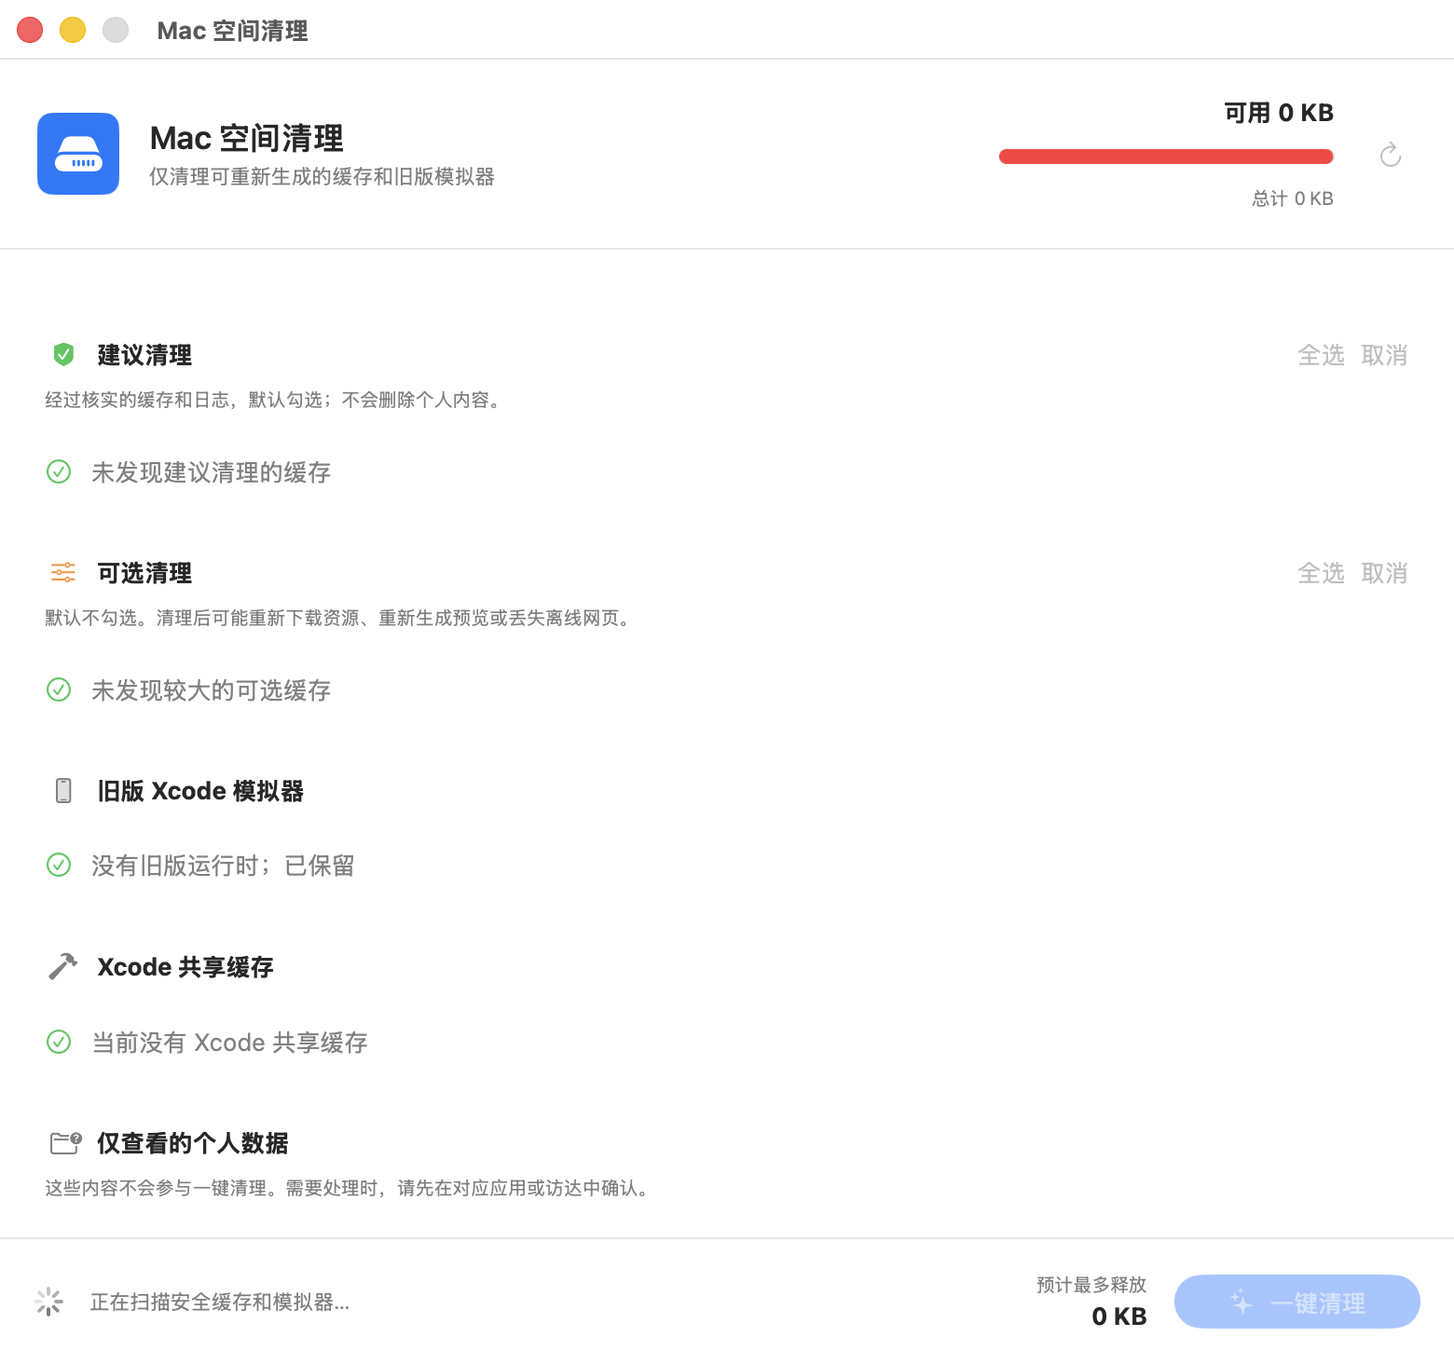
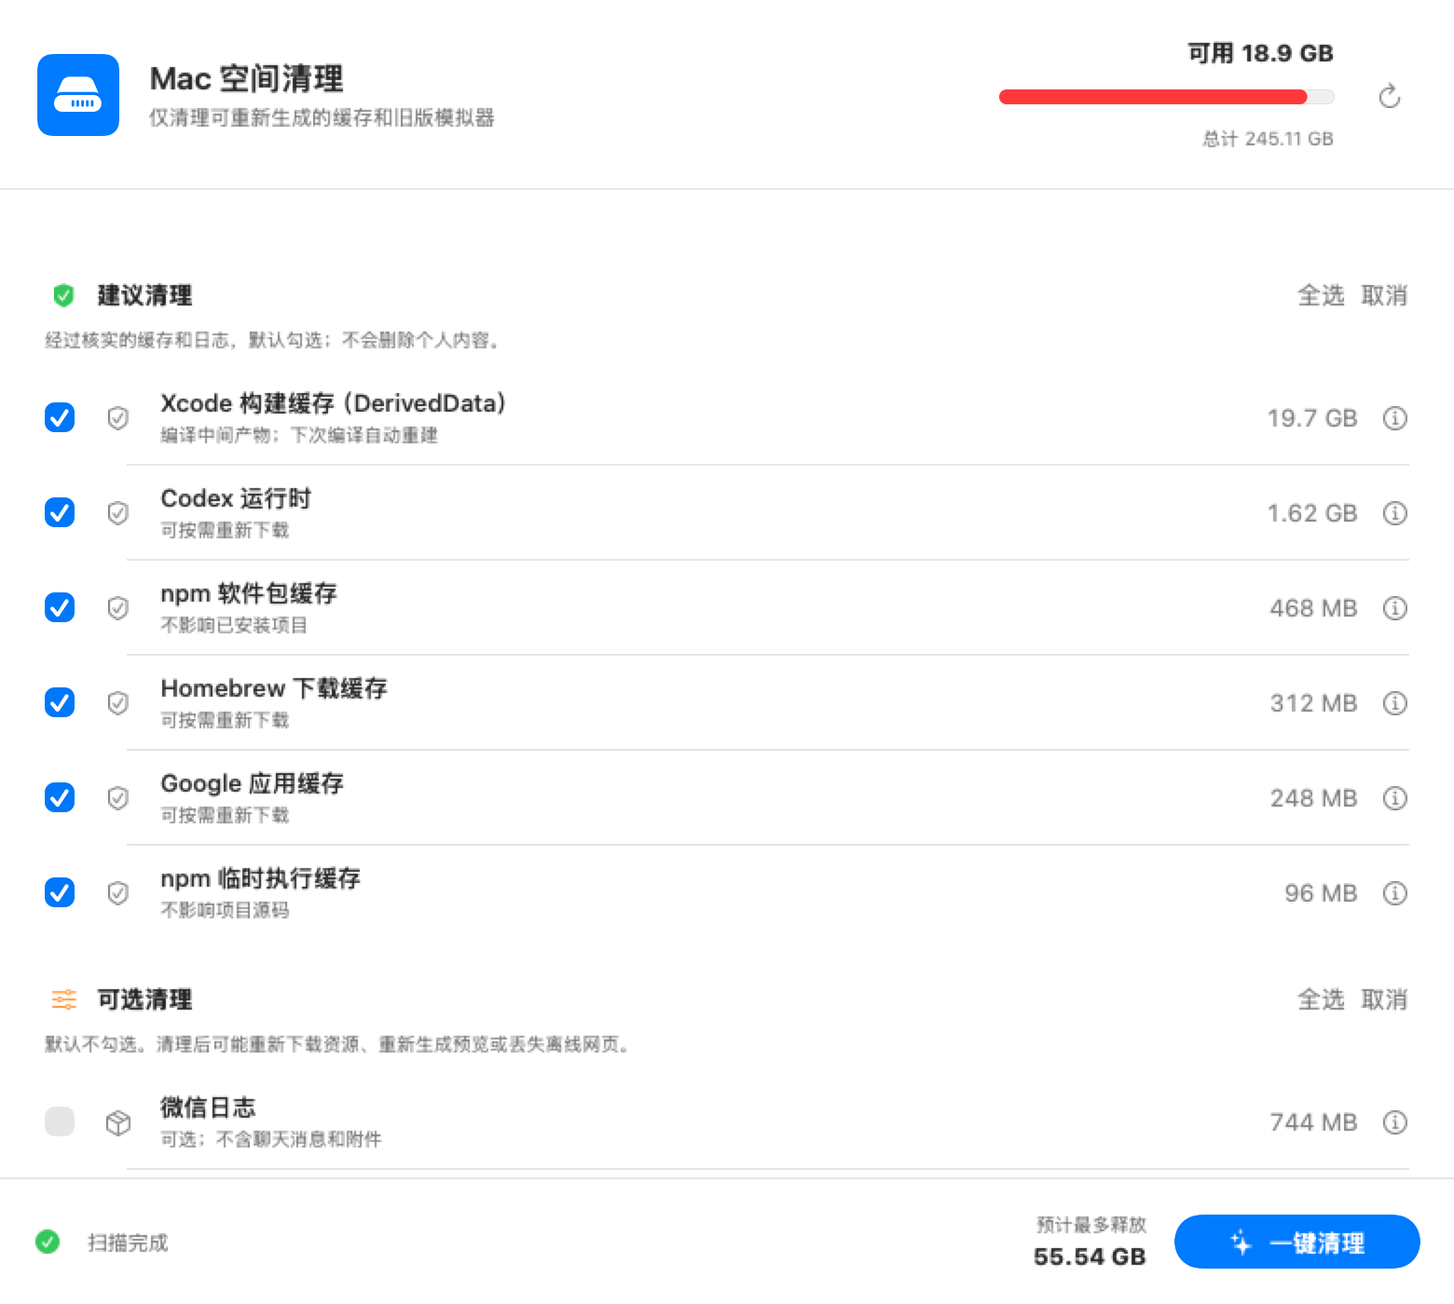
Lead the homepage with the developer angle
The homepage pitched the general "see the cache before you clean" idea, which
competes directly with established Mac cleaners. The Xcode wedge is the part
nobody else covers well, so the front page now leads with it.

- Hero, title, meta description and featureList all lead with Xcode storage
- Coverage list puts Xcode first and links to the new Xcode page
- Rebuild the product screenshot: the old one showed "0 KB free", and the only
  spare was a real capture that exposed the owner's installed apps
- Add an English screenshot so the English page no longer borrows the Chinese one
- Label the figure as an illustrative screenshot of the real interface

diff --git a/website/en/index.html b/website/en/index.html
@@ -3,7 +3,7 @@
 <head>
   <meta charset="utf-8">
   <meta name="viewport" content="width=device-width, initial-scale=1">
-  <meta name="description" content="Mac Space Cleaner is a native macOS cache cleaner that shows what will be removed and keeps personal data out of one-click cleanup.">
+  <meta name="description" content="A native macOS cleaner that lists the real size of old Xcode simulator runtimes, build caches, device support files and developer caches, and marks what can be regenerated.">
   <meta name="theme-color" content="#f4f7fc">
   <link rel="canonical" href="https://mac-space-cleaner.vercel.app/en/">
   <link rel="alternate" hreflang="zh-Hans" href="https://mac-space-cleaner.vercel.app/">
@@ -11,14 +11,14 @@
   <link rel="alternate" hreflang="x-default" href="https://mac-space-cleaner.vercel.app/en/">
   <meta property="og:type" content="website">
   <meta property="og:site_name" content="Mac Space Cleaner">
-  <meta property="og:title" content="Mac Space Cleaner | See the cache before you clean">
-  <meta property="og:description" content="A native macOS cache cleaner that separates recommended, optional and personal data so you stay in control.">
+  <meta property="og:title" content="Mac Space Cleaner | See what Xcode is eating before you delete it">
+  <meta property="og:description" content="Old simulator runtimes, build caches and device support files, listed with their real size and marked as regenerable.">
   <meta property="og:url" content="https://mac-space-cleaner.vercel.app/en/">
   <meta property="og:image" content="https://mac-space-cleaner.vercel.app/assets/app-icon.png">
   <meta name="twitter:card" content="summary">
-  <meta name="twitter:title" content="Mac Space Cleaner | See the cache before you clean">
-  <meta name="twitter:description" content="A native macOS cache cleaner that shows what will be removed and keeps personal data out of one-click cleanup.">
-  <title>Mac Space Cleaner - See the cache before you clean</title>
+  <meta name="twitter:title" content="Mac Space Cleaner | See what Xcode is eating before you delete it">
+  <meta name="twitter:description" content="A native macOS cleaner that lists the real size of every item and marks what can be regenerated.">
+  <title>Mac Space Cleaner | See what Xcode and dev caches are eating first</title>
   <link rel="icon" href="../assets/app-icon.png">
   <link rel="stylesheet" href="../styles.css">
   <script src="https://unpkg.com/lucide@0.468.0/dist/umd/lucide.min.js" defer></script>
@@ -29,7 +29,7 @@
     "@type": "SoftwareApplication",
     "name": "Mac Space Cleaner",
     "alternateName": "MacSpaceCleaner",
-    "description": "A native macOS cache cleaner that shows what will be removed and keeps personal data out of one-click cleanup.",
+    "description": "A native macOS cleaner that lists the real size of old Xcode simulator runtimes, build caches, device support files and developer caches, and marks what can be regenerated.",
     "applicationCategory": "UtilitiesApplication",
     "operatingSystem": "macOS 14 or later",
     "softwareVersion": "1.3",
@@ -37,7 +37,7 @@
     "downloadUrl": "https://mac-space-cleaner.vercel.app/downloads/MacSpaceCleaner-1.3.dmg",
     "image": "https://mac-space-cleaner.vercel.app/assets/app-icon.png",
     "offers": {"@type": "Offer", "price": "0", "priceCurrency": "USD", "url": "https://mac-space-cleaner.vercel.app/downloads/MacSpaceCleaner-1.3.dmg"},
-    "featureList": ["Local cache scanning", "Old Xcode simulator detection", "Optional cache categories", "Read-only personal data view", "Apple notarization"]
+    "featureList": ["Old Xcode simulator runtime detection", "Xcode build cache (DerivedData) detection", "Device support file detection", "Developer tool cache scanning", "Optional cache categories", "Read-only personal data view", "Apple notarization"]
   }
   </script>
 </head>
@@ -64,12 +64,12 @@
   <main id="top">
     <section class="hero" aria-labelledby="hero-title">
       <div class="hero-inner">
-        <p class="eyebrow">See the cache before you clean</p>
-        <h1 id="hero-title">Mac Space Cleaner</h1>
-        <p class="hero-lead">Find common app caches, developer-tool caches and old Xcode simulators. Personal data always stays under your control.</p>
+        <p class="eyebrow">macOS storage cleanup</p>
+        <h1 id="hero-title">See what Xcode is eating before you delete it</h1>
+        <p class="hero-lead">Old simulator runtimes, build caches and device support files are the three largest reclaimable blocks on a developer's Mac. Everyday app caches are covered too. Every item is listed with its real size and marked as regenerable or not, and you decide what goes.</p>
         <div class="hero-actions">
-          <a class="button button-primary" href="../downloads/MacSpaceCleaner-1.3.dmg" download><i data-lucide="download" aria-hidden="true"></i>Download v1.2</a>
-          <a class="button button-secondary" href="mac-storage-cleaner.html">Mac running out of space?<i data-lucide="arrow-right" aria-hidden="true"></i></a>
+          <a class="button button-primary" href="../downloads/MacSpaceCleaner-1.3.dmg" download><i data-lucide="download" aria-hidden="true"></i>Download v1.3</a>
+          <a class="button button-secondary" href="xcode-simulator-cleanup.html">See what Xcode takes up<i data-lucide="arrow-right" aria-hidden="true"></i></a>
         </div>
         <div class="hero-meta" aria-label="Version details">
           <span><i data-lucide="badge-check" aria-hidden="true"></i>Apple notarized</span>
@@ -91,23 +91,23 @@
       <div class="section-inner">
         <div class="section-heading">
           <p class="eyebrow">The interface</p>
-          <h2 id="product-title">Every storage category has a clear safety boundary</h2>
-          <p>Recommended caches, optional caches, old simulators and personal data are shown separately. You decide what happens after the scan.</p>
+          <h2 id="product-title">What is safe to delete, and what only looks like it</h2>
+          <p>Recommended caches, optional caches, the three Xcode categories and personal data are shown in separate groups. Each group has its own selection boundary, and nothing happens until you decide.</p>
         </div>
         <figure class="app-preview">
-          <img src="../assets/app-window.png" alt="Mac Space Cleaner interface showing recommended cleanup, optional cleanup, old simulators and personal data sections" width="1560" height="1464">
-          <figcaption>The app follows your preferred macOS language. This screenshot is shown in Simplified Chinese; results vary by installed software and cache contents.</figcaption>
+          <img src="../assets/app-window-en.png" alt="Mac Space Cleaner interface: the first recommended item is the Xcode build cache (DerivedData) at 19.7 GB, followed by optional old simulator runtimes, device support files and a read-only personal data section" width="1560" height="1400">
+          <figcaption>Illustrative screenshot; the interface is the real product. Actual values depend on the software and caches installed on your Mac.</figcaption>
         </figure>
       </div>
     </section>
 
     <section class="coverage-section" id="coverage" aria-labelledby="coverage-title">
       <div class="section-inner">
-        <div class="section-heading compact"><p class="eyebrow">What it finds</p><h2 id="coverage-title">Everyday apps and developer tools</h2></div>
+        <div class="section-heading compact"><p class="eyebrow">What it finds</p><h2 id="coverage-title">From Xcode to everyday app caches</h2></div>
         <div class="coverage-list">
-          <article><div class="feature-icon green"><i data-lucide="package-check" aria-hidden="true"></i></div><div><h3>Recommended cleanup</h3><p>Browser component caches, update caches, logs and regenerable content from tools such as npm, pnpm, bun, Homebrew and Playwright.</p></div></article>
-          <article><div class="feature-icon orange"><i data-lucide="sliders-horizontal" aria-hidden="true"></i></div><div><h3>Optional cleanup</h3><p>Other app caches, offline webpages, speech models, dynamic wallpapers and temporary resources from apps such as WeChat and WPS.</p></div></article>
-          <article><div class="feature-icon blue"><i data-lucide="smartphone" aria-hidden="true"></i></div><div><h3>Xcode simulators</h3><p>Finds old runtimes while keeping the newest version for each platform. Regenerable dyld shared caches can also be removed.</p></div></article>
+          <article><div class="feature-icon blue"><i data-lucide="hammer" aria-hidden="true"></i></div><div><h3>Xcode storage</h3><p>Old simulator runtimes are listed one by one per platform and version, with the newest version of each platform marked automatically. The build cache (DerivedData) and device support files can be handled separately. All three are regenerable, so removing them does not touch your source code or configuration. <a href="xcode-simulator-cleanup.html">See how it decides →</a></p></div></article>
+          <article><div class="feature-icon green"><i data-lucide="package-check" aria-hidden="true"></i></div><div><h3>Developer tool caches</h3><p>Package caches, temporary execution caches and download caches left behind by tools such as npm, pnpm, bun, Homebrew and Playwright. All of them are regenerated on demand.</p></div></article>
+          <article><div class="feature-icon orange"><i data-lucide="sliders-horizontal" aria-hidden="true"></i></div><div><h3>App caches and logs</h3><p>Browser component caches, update caches, offline webpages, speech models, dynamic wallpapers and temporary resources from apps such as WeChat and WPS. This group is unchecked by default.</p></div></article>
           <article><div class="feature-icon gray"><i data-lucide="folder-search" aria-hidden="true"></i></div><div><h3>Personal data is view-only</h3><p>Downloads, iCloud Drive, WeChat chat data and WPS backups are shown for reference and never included in one-click cleanup.</p></div></article>
         </div>
       </div>
@@ -127,7 +127,7 @@
 
     <section class="download-section" id="download" aria-labelledby="download-title">
       <div class="section-inner download-layout">
-        <div><p class="eyebrow light">Current version 1.3</p><h2 id="download-title">Give your Mac room to breathe</h2><p>Download the DMG and drag the app into Applications. File size is approximately 1.2 MB.</p></div>
+        <div><p class="eyebrow light">Current version 1.3</p><h2 id="download-title">Give the space back to your next build</h2><p>Download the DMG and drag the app into Applications. File size is approximately 1.2 MB. Apple notarized, and the scan runs entirely on your Mac.</p></div>
         <div class="download-actions"><a class="button button-light" href="../downloads/MacSpaceCleaner-1.3.dmg" download><i data-lucide="download" aria-hidden="true"></i>Download for Mac</a><a class="checksum-link" href="../downloads/MacSpaceCleaner-1.3.dmg.sha256" download>SHA-256 checksum</a></div>
       </div>
     </section>

diff --git a/website/index.html b/website/index.html
@@ -3,7 +3,7 @@
 <head>
   <meta charset="utf-8">
   <meta name="viewport" content="width=device-width, initial-scale=1">
-  <meta name="description" content="Mac 空间清理是一款原生 macOS 缓存清理工具，清理前可查看内容，个人数据不会进入一键清理。">
+  <meta name="description" content="原生 macOS 空间清理工具。逐个列出旧版 Xcode 模拟器、构建缓存、真机调试文件和开发工具缓存的真实体积，标出哪些可重新生成，删哪个由你决定。">
   <meta name="theme-color" content="#f4f7fc">
   <link rel="canonical" href="https://mac-space-cleaner.vercel.app/">
   <link rel="alternate" hreflang="zh-Hans" href="https://mac-space-cleaner.vercel.app/">
@@ -11,14 +11,14 @@
   <link rel="alternate" hreflang="x-default" href="https://mac-space-cleaner.vercel.app/en/">
   <meta property="og:type" content="website">
   <meta property="og:site_name" content="Mac 空间清理">
-  <meta property="og:title" content="Mac 空间清理｜看清缓存，再决定清理">
-  <meta property="og:description" content="原生 macOS 缓存清理工具。建议项、可选项和个人数据分开呈现，清理前先看清。">
+  <meta property="og:title" content="Mac 空间清理｜Xcode 吃掉的几十 G，先看清再删">
+  <meta property="og:description" content="旧版模拟器运行时、构建缓存、真机调试文件，逐个列出真实体积，标出哪些可重新生成。">
   <meta property="og:url" content="https://mac-space-cleaner.vercel.app/">
   <meta property="og:image" content="https://mac-space-cleaner.vercel.app/assets/app-icon.png">
   <meta name="twitter:card" content="summary">
-  <meta name="twitter:title" content="Mac 空间清理｜看清缓存，再决定清理">
-  <meta name="twitter:description" content="原生 macOS 缓存清理工具，清理前可查看内容，个人数据不会进入一键清理。">
-  <title>Mac 空间清理 - 看清缓存，再决定清理</title>
+  <meta name="twitter:title" content="Mac 空间清理｜Xcode 吃掉的几十 G，先看清再删">
+  <meta name="twitter:description" content="原生 macOS 空间清理工具。逐个列出真实体积，标出哪些可重新生成，删哪个由你决定。">
+  <title>Mac 空间清理｜Xcode 和开发缓存占了多少，先看清再删</title>
   <link rel="icon" href="assets/app-icon.png">
   <link rel="stylesheet" href="styles.css">
   <script src="https://unpkg.com/lucide@0.468.0/dist/umd/lucide.min.js" defer></script>
@@ -29,7 +29,7 @@
     "@type": "SoftwareApplication",
     "name": "Mac 空间清理",
     "alternateName": "MacSpaceCleaner",
-    "description": "原生 macOS 缓存清理工具，清理前可查看内容，个人数据不会进入一键清理。",
+    "description": "原生 macOS 空间清理工具。逐个列出旧版 Xcode 模拟器、构建缓存、真机调试文件和开发工具缓存的真实体积，标出哪些可重新生成。",
     "applicationCategory": "UtilitiesApplication",
     "operatingSystem": "macOS 14 or later",
     "softwareVersion": "1.3",
@@ -37,7 +37,7 @@
     "downloadUrl": "https://mac-space-cleaner.vercel.app/downloads/MacSpaceCleaner-1.3.dmg",
     "image": "https://mac-space-cleaner.vercel.app/assets/app-icon.png",
     "offers": {"@type": "Offer", "price": "0", "priceCurrency": "USD", "url": "https://mac-space-cleaner.vercel.app/downloads/MacSpaceCleaner-1.3.dmg"},
-    "featureList": ["缓存目录扫描", "旧版 Xcode 模拟器识别", "可选缓存分级", "个人数据只读展示", "Apple 公证"]
+    "featureList": ["旧版 Xcode 模拟器识别", "Xcode 构建缓存（DerivedData）识别", "真机调试支持文件识别", "开发工具缓存扫描", "可选缓存分级", "个人数据只读展示", "Apple 公证"]
   }
   </script>
 </head>
@@ -72,16 +72,16 @@
   <main id="top">
     <section class="hero" aria-labelledby="hero-title">
       <div class="hero-inner">
-        <p class="eyebrow">看清缓存，再决定清理</p>
-        <h1 id="hero-title">Mac 空间清理</h1>
-        <p class="hero-lead">识别常见应用缓存、开发工具缓存和旧版 Xcode 模拟器，个人数据始终留给你确认。</p>
+        <p class="eyebrow">macOS 空间清理</p>
+        <h1 id="hero-title">Xcode 吃掉的几十 G，先看清再删</h1>
+        <p class="hero-lead">旧版模拟器运行时、构建缓存、真机调试文件，是开发机上最大的三块可清理空间；日常应用缓存也一并覆盖。逐个列出真实体积，标出哪些可以重新生成，删哪个由你决定。</p>
         <div class="hero-actions">
           <a class="button button-primary" href="downloads/MacSpaceCleaner-1.3.dmg" download>
             <i data-lucide="download" aria-hidden="true"></i>
             下载 v1.3
           </a>
-          <a class="button button-secondary" href="mac-storage-cleaner.html">
-            空间不足？先排查
+          <a class="button button-secondary" href="xcode-simulator-cleanup.html">
+            看看 Xcode 占了什么
             <i data-lucide="arrow-right" aria-hidden="true"></i>
           </a>
         </div>
@@ -117,12 +117,12 @@
       <div class="section-inner">
         <div class="section-heading">
           <p class="eyebrow">真实界面</p>
-          <h2 id="product-title">每类空间占用，都有安全边界</h2>
-          <p>建议清理、可选缓存、旧版模拟器和个人数据分区呈现，扫描完成后再由用户决定。</p>
+          <h2 id="product-title">哪些能删、哪些不能删，一眼分清</h2>
+          <p>建议清理、可选缓存、Xcode 三类空间和个人数据分区呈现。每一类都有独立的勾选边界，扫描完成后再由你决定。</p>
         </div>
         <figure class="app-preview">
-          <img src="assets/app-window.png" alt="Mac 空间清理应用界面，展示建议清理、可选清理、旧版模拟器和个人数据分区" width="1560" height="1464">
-          <figcaption>实际界面因电脑中安装的软件和缓存内容而不同。</figcaption>
+          <img src="assets/app-window.png" alt="Mac 空间清理应用界面：建议清理第一项是 Xcode 构建缓存（DerivedData）19.7 GB，下方依次是可选的旧版模拟器运行时、真机调试支持文件和个人数据只读分区" width="1560" height="1400">
+          <figcaption>示意截图，界面为产品真实界面。实际数值取决于你电脑上安装的软件和缓存内容。</figcaption>
         </figure>
       </div>
     </section>
@@ -131,28 +131,28 @@
       <div class="section-inner">
         <div class="section-heading compact">
           <p class="eyebrow">识别范围</p>
-          <h2 id="coverage-title">覆盖日常应用与开发环境</h2>
+          <h2 id="coverage-title">从 Xcode 到日常应用缓存</h2>
         </div>
         <div class="coverage-list">
           <article>
+            <div class="feature-icon blue"><i data-lucide="hammer" aria-hidden="true"></i></div>
+            <div>
+              <h3>Xcode 空间</h3>
+              <p>旧版模拟器运行时按平台和版本逐个列出，自动标出每个平台的最新版；构建缓存（DerivedData）和真机调试支持文件也可以单独处理。这三类都是可重新生成的内容，删除不会影响源码和配置。<a href="xcode-simulator-cleanup.html">看看它怎么判断 →</a></p>
+            </div>
+          </article>
+          <article>
             <div class="feature-icon green"><i data-lucide="package-check" aria-hidden="true"></i></div>
             <div>
-              <h3>建议清理</h3>
-              <p>浏览器组件缓存、更新缓存、日志，以及 npm、pnpm、bun、Homebrew、Playwright 等可重新生成的内容。</p>
+              <h3>开发工具缓存</h3>
+              <p>npm、pnpm、bun、Homebrew、Playwright 等工具留下的包缓存、临时执行缓存和下载缓存，都是可重新生成的中间产物。</p>
             </div>
           </article>
           <article>
             <div class="feature-icon orange"><i data-lucide="sliders-horizontal" aria-hidden="true"></i></div>
             <div>
-              <h3>可选清理</h3>
-              <p>其他应用缓存、离线网页、语音模型、动态壁纸，以及微信、WPS 等应用的临时资源。</p>
-            </div>
-          </article>
-          <article>
-            <div class="feature-icon blue"><i data-lucide="smartphone" aria-hidden="true"></i></div>
-            <div>
-              <h3>Xcode 模拟器</h3>
-              <p>识别旧版运行时并保留每个平台的最新版本，也可清理按需重建的 dyld 共享缓存。</p>
+              <h3>应用缓存与日志</h3>
+              <p>浏览器组件缓存、更新缓存、离线网页、语音模型、动态壁纸，以及微信、WPS 等应用的临时资源。这一类默认不勾选。</p>
             </div>
           </article>
           <article>
@@ -186,8 +186,8 @@
       <div class="section-inner download-layout">
         <div>
           <p class="eyebrow light">当前版本 1.3</p>
-          <h2 id="download-title">给 Mac 留出呼吸空间</h2>
-          <p>下载 DMG，将 App 拖入“应用程序”即可。文件大小约 1.2 MB。</p>
+          <h2 id="download-title">把空间还给下一次编译</h2>
+          <p>下载 DMG，将 App 拖入“应用程序”即可。文件大小约 1.2 MB，Apple 公证，扫描全程在本机完成。</p>
         </div>
         <div class="download-actions">
           <a class="button button-light" href="downloads/MacSpaceCleaner-1.3.dmg" download>

diff --git a/website/styles.css b/website/styles.css
@@ -808,6 +808,14 @@ i[data-lucide] {
   text-underline-offset: 3px;
 }
 
+.coverage-list p a {
+  color: var(--brand-dark);
+  font-weight: 700;
+  text-decoration: underline;
+  text-underline-offset: 3px;
+  white-space: nowrap;
+}
+
 @media (max-width: 900px) {
   .nav-toggle {
     display: inline-flex;
